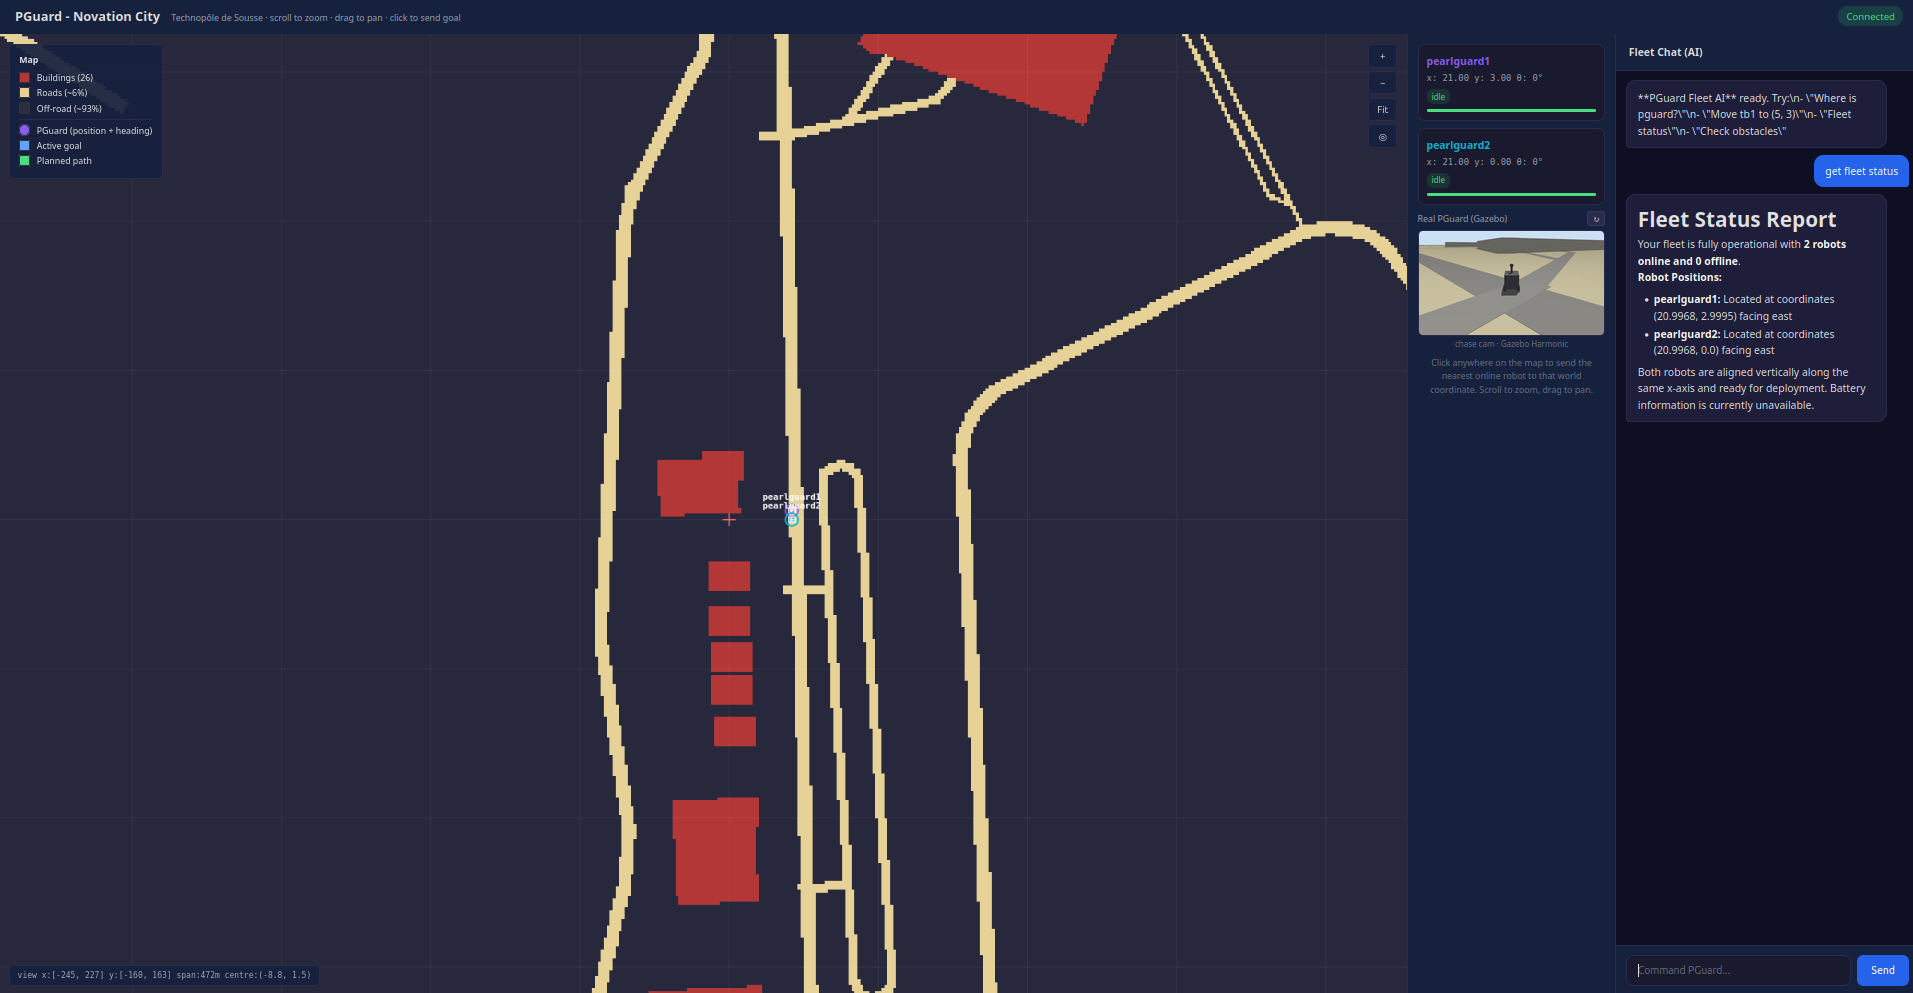
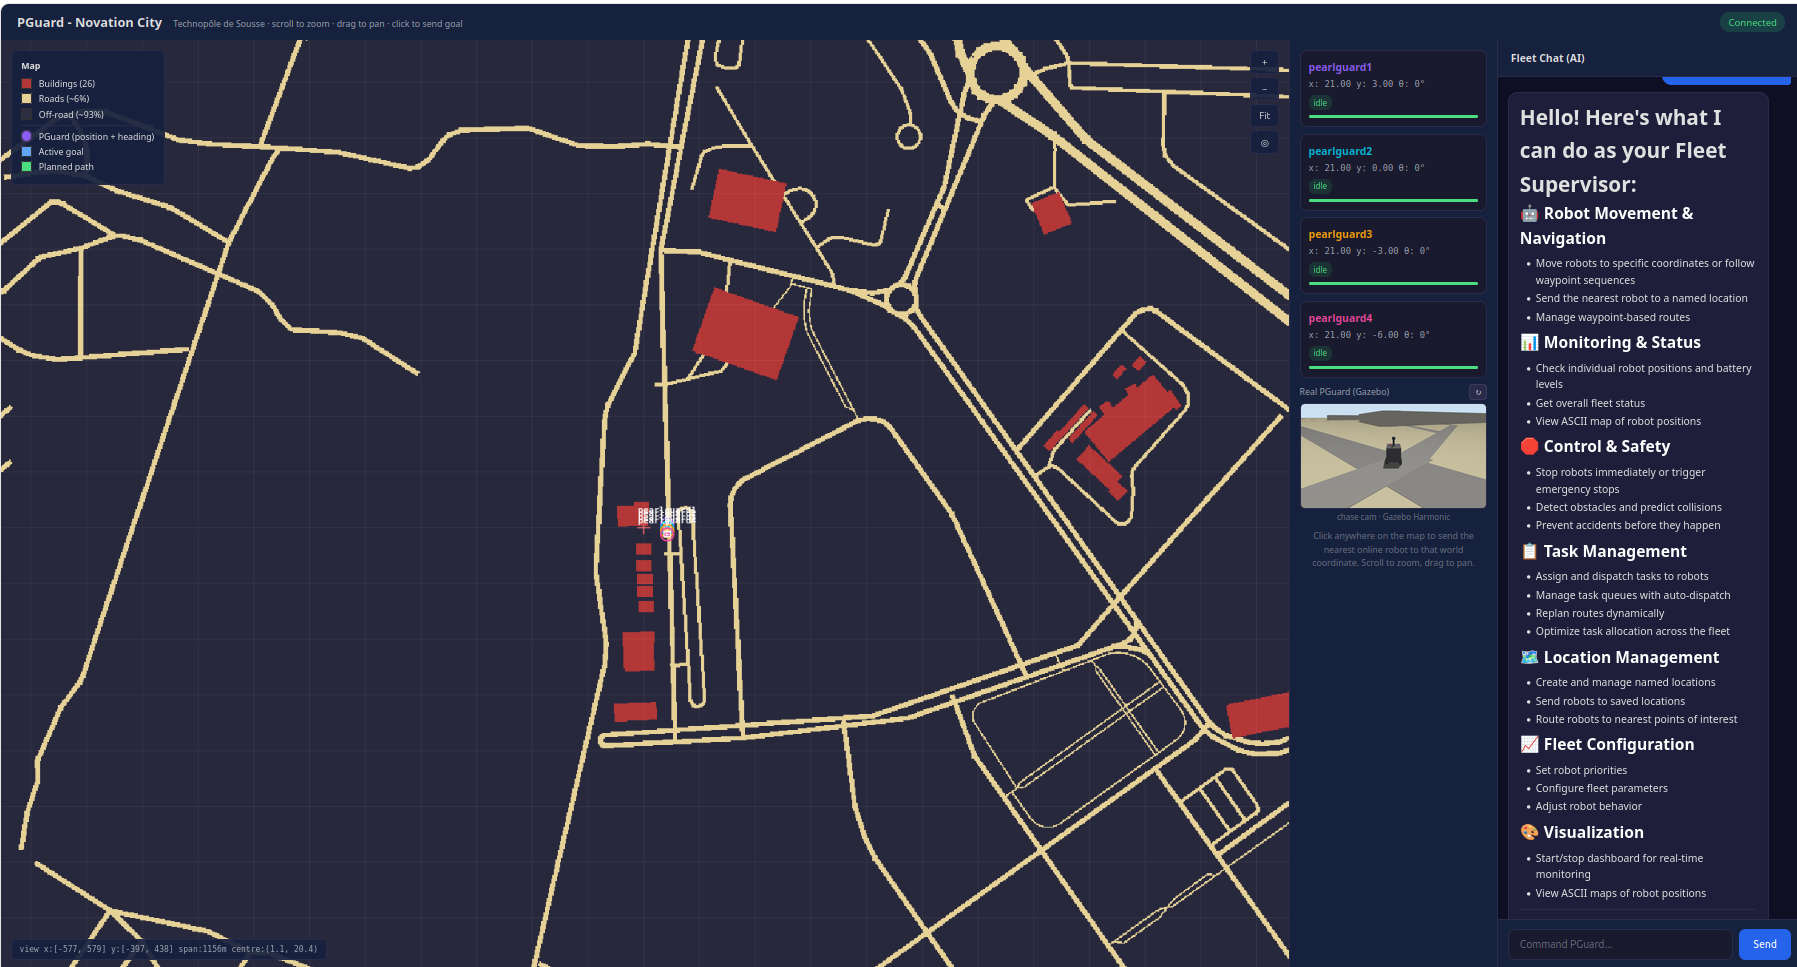
Update Micro Farr repo link, RoboFleet and FPV images, mention PavoPico

diff --git a/lang/data-projects-fr.tsx b/lang/data-projects-fr.tsx
@@ -18,16 +18,16 @@ import TaskVisionHighchart from "../public/img/projects/taskVision/highchart.jpg
 import TaskVisionClaudeClient from "../public/img/projects/taskVision/claude_desktop_as_client.png";
 import FullSetupImg from "../public/img/projects/fpv_drone/full_steup.jpg";
 import TwoInchDroneImg from "../public/img/projects/fpv_drone/2inch_drone.jpg";
-import FpvImg from "../public/img/projects/fpv_drone/fpv_img.png";
+import PavoPicoImg from "../public/img/projects/fpv_drone/PavoPico.jpg";
 import FpvImgFlying from "../public/img/projects/fpv_drone/fpv_img_flying.png";
 import ProdTrackSystemImg from "../public/img/projects/prodTrack/better_img_for_system.png";
 import ProdTrackDashboardImg from "../public/img/projects/prodTrack/dashboard.png";
 import ProdTrackTaskImg from "../public/img/projects/prodTrack/task_assignment.png";
 import ProdTrackTeamImg from "../public/img/projects/prodTrack/team_image.jpg";
 import ProdTrackTrackingImg from "../public/img/projects/prodTrack/tracking_board.png";
-import RoboFleetMapImg from "../public/img/projects/robo_fleet/map.jpeg";
+import RoboFleetDashboard from "../public/img/projects/robo_fleet/dashboard.png";
 import RoboFleetRviz from "../public/img/projects/robo_fleet/rviz.png";
-import RoboFleetRobots from "../public/img/projects/robo_fleet/robots.png";
+import RoboFleetRobots from "../public/img/projects/robo_fleet/robots_inGazebo.png";
 import RoboFleetGZMap from "../public/img/projects/robo_fleet/gz_map.png";
 import RoboFleetReal from "../public/img/projects/robo_fleet/pguard_real.jpg";
 import KynoraArm from "../public/img/projects/kynora/SO101_arm.png";
@@ -103,14 +103,14 @@ const projects = [
     id: 3,
     title: "2-Inch FPV Drone",
     description:
-      "Un petit drone FPV de 2 pouces, construit et réglé pour le vol freestyle — format compact, excellent rapport puissance/poids et installation first-person-view complète.",
+      "Un petit drone FPV de 2 pouces, construit et réglé pour le vol freestyle — format compact, excellent rapport puissance/poids et installation first-person-view complète. J'ai travaillé sur ce drone 2 pouces ainsi que sur le drone PavoPico.",
     detailed_description:
-      "Un drone FPV 2 pouces sur mesure axé sur la compacité et des performances de vol agressives. Le projet a couvert la sélection des composants, l'assemblage du châssis, le soudage, la configuration du contrôleur de vol et le réglage pour un comportement de vol stable et nerveux, le tout dans un format minuscule avec une caméra FPV et un émetteur vidéo complets.",
+      "Un drone FPV 2 pouces sur mesure axé sur la compacité et des performances de vol agressives. Le projet a couvert la sélection des composants, l'assemblage du châssis, le soudage, la configuration du contrôleur de vol et le réglage pour un comportement de vol stable et nerveux, le tout dans un format minuscule avec une caméra FPV et un émetteur vidéo complets. J'ai travaillé sur deux constructions FPV : ce drone 2 pouces et le drone PavoPico.",
     image_path: FullSetupImg,
     images: [
       FullSetupImg,
       TwoInchDroneImg,
-      FpvImg,
+      PavoPicoImg,
       FpvImgFlying,
     ],
     link: "",
@@ -155,7 +155,7 @@ const projects = [
       MicroFarrV1Img,
       MicroFarrV1CompImg,
     ],
-    link: "https://github.com/hayder-tatsouri/Maze-solver-robot",
+    link: "https://github.com/AbdelbakiJeddi/micro_farr/tree/nav_0.2H",
     color: "#dc2626",
     tech: ["Arduino", "ESP32", "FreeRTOS", "IMU", "ToF Sensors", "Ultrasonic Sensors", "Sensor Fusion", "PID Control", "C/C++", "Embedded Systems"],
     demo: "",
@@ -182,7 +182,7 @@ const projects = [
     detailed_description:
       "Pendant mon stage chez Enova Robotics, j'ai construit une plateforme de simulation et de contrôle pour une flotte de robots de sécurité autonomes. Plutôt que de tester dans un monde vide générique, j'ai recréé Novation City / Technopôle de Sousse — le site réel d'Enova — en extrayant les données réelles des bâtiments et routes d'OpenStreetMap pour que les robots patrouillent un jumeau numérique fidèle du terrain qu'ils sont censés garder. Le projet s'est articulé autour de trois axes principaux : la navigation autonome avec un stack Nav2 complet utilisant Regulated Pure Pursuit et des costmaps multicouches avec évitement d'obstacles LiDAR ; une architecture multi-robots où plusieurs robots opèrent simultanément dans le même monde, chacun avec son propre stack de navigation indépendant ; et une couche multi-agents — un serveur MCP exposant des outils d'allocation de tâches, de prédiction de collisions et de commandes en langage naturel à un LLM (Claude), permettant de coordonner et surveiller la flotte via un agent IA et un dashboard en direct.",
     image_path: RoboFleetReal,
-    images: [RoboFleetReal,RoboFleetRobots,RoboFleetGZMap,RoboFleetMapImg,RoboFleetRviz],
+    images: [RoboFleetReal, RoboFleetRobots, RoboFleetGZMap, RoboFleetRviz, RoboFleetDashboard],
     link: "",
     color: "#7c3aed",
     tech: ["ROS2", "Gazebo Harmonic", "Nav2", "Python", "MCP", "Claude API"],

diff --git a/lang/data-projects-en.tsx b/lang/data-projects-en.tsx
@@ -14,16 +14,16 @@ import TaskVisionHighchart from "../public/img/projects/taskVision/highchart.jpg
 import TaskVisionClaudeClient from "../public/img/projects/taskVision/claude_desktop_as_client.png";
 import FullSetupImg from "../public/img/projects/fpv_drone/full_steup.jpg";
 import TwoInchDroneImg from "../public/img/projects/fpv_drone/2inch_drone.jpg";
-import FpvImg from "../public/img/projects/fpv_drone/fpv_img.png";
+import PavoPicoImg from "../public/img/projects/fpv_drone/PavoPico.jpg";
 import FpvImgFlying from "../public/img/projects/fpv_drone/fpv_img_flying.png";
 import ProdTrackSystemImg from "../public/img/projects/prodTrack/better_img_for_system.png";
 import ProdTrackDashboardImg from "../public/img/projects/prodTrack/dashboard.png";
 import ProdTrackTaskImg from "../public/img/projects/prodTrack/task_assignment.png";
 import ProdTrackTeamImg from "../public/img/projects/prodTrack/team_image.jpg";
 import ProdTrackTrackingImg from "../public/img/projects/prodTrack/tracking_board.png";
-import RoboFleetMapImg from "../public/img/projects/robo_fleet/map.jpeg";
+import RoboFleetDashboard from "../public/img/projects/robo_fleet/dashboard.png";
 import RoboFleetRviz from "../public/img/projects/robo_fleet/rviz.png";
-import RoboFleetRobots from "../public/img/projects/robo_fleet/robots.png";
+import RoboFleetRobots from "../public/img/projects/robo_fleet/robots_inGazebo.png";
 import RoboFleetGZMap from "../public/img/projects/robo_fleet/gz_map.png";
 import RoboFleetReal from "../public/img/projects/robo_fleet/pguard_real.jpg";
 import KynoraArm from "../public/img/projects/kynora/SO101_arm.png";
@@ -105,14 +105,14 @@ const projects = [
     id: 3,
     title: "2-Inch FPV Drone",
     description:
-      "A 2-inch freestyle quad I built from scratch. It's light, quick, and set up for aggressive flying.",
+      "A 2-inch freestyle quad I built from scratch. It's light, quick, and set up for aggressive flying. I worked on this 2-inch drone and also on the PavoPico drone.",
     detailed_description:
-      "A custom 2-inch FPV drone build focused on compact size and aggressive flying performance. The project covered component selection, frame assembly, soldering, flight controller configuration, and tuning for stable, punchy flight behavior, all packed into a tiny footprint with a full FPV camera and video transmitter setup.",
+      "A custom 2-inch FPV drone build focused on compact size and aggressive flying performance. The project covered component selection, frame assembly, soldering, flight controller configuration, and tuning for stable, punchy flight behavior, all packed into a tiny footprint with a full FPV camera and video transmitter setup. I worked on two FPV builds: this 2-inch drone and the PavoPico drone.",
     image_path: FullSetupImg,
     images: [
       FullSetupImg,
       TwoInchDroneImg,
-      FpvImg,
+      PavoPicoImg,
       FpvImgFlying,
     ],
     videoId: "3WWjgtDNfrI",
@@ -159,7 +159,7 @@ const projects = [
       MicroFarrV1Img,
       MicroFarrV1CompImg,
     ],
-    link: "https://github.com/hayder-tatsouri/Maze-solver-robot",
+    link: "https://github.com/AbdelbakiJeddi/micro_farr/tree/nav_0.2H",
     color: "#dc2626",
     tech: ["Arduino", "ESP32", "FreeRTOS", "IMU", "ToF Sensors", "Ultrasonic Sensors", "Sensor Fusion", "PID Control", "C/C++", "Embedded Systems"],
     demo: "",
@@ -186,7 +186,7 @@ const projects = [
     detailed_description:
       "During my internship at Enova Robotics, I built a simulation and control platform for a fleet of autonomous security robots. Instead of testing in a generic empty world, I recreated Novation City / Technopôle de Sousse, Enova's actual site, using real building and road data from OpenStreetMap so the robots patrol a digital twin of the ground they're meant to guard, using the actual robot model Enova operates in the field.The project has three main pieces: autonomous navigation built on sensor fusion, combining IMU, GPS, LiDAR, and wheel odometry through an EKF for stable localization, feeding into a full Nav2 stack with layered costmaps for path planning and obstacle avoidance; a multi-robot setup where several robots run simultaneously in the same world, each with its own independent navigation stack; and a multi-agent layer, where each agent has its own dedicated skills and tools (task allocation, collision prediction, patrol coordination) exposed through an MCP server, so the fleet can be coordinated through an AI agent and a live dashboard.",
     image_path: RoboFleetReal,
-    images: [RoboFleetReal,RoboFleetRobots,RoboFleetGZMap,RoboFleetMapImg,RoboFleetRviz],
+    images: [RoboFleetReal, RoboFleetRobots, RoboFleetGZMap, RoboFleetRviz, RoboFleetDashboard],
     link: "",
     color: "#67aa69",
     tech: ["ROS2", "Gazebo Harmonic", "Nav2", "Python", "MCP", "Multi-Agent Systems", "LangGraphs"],
